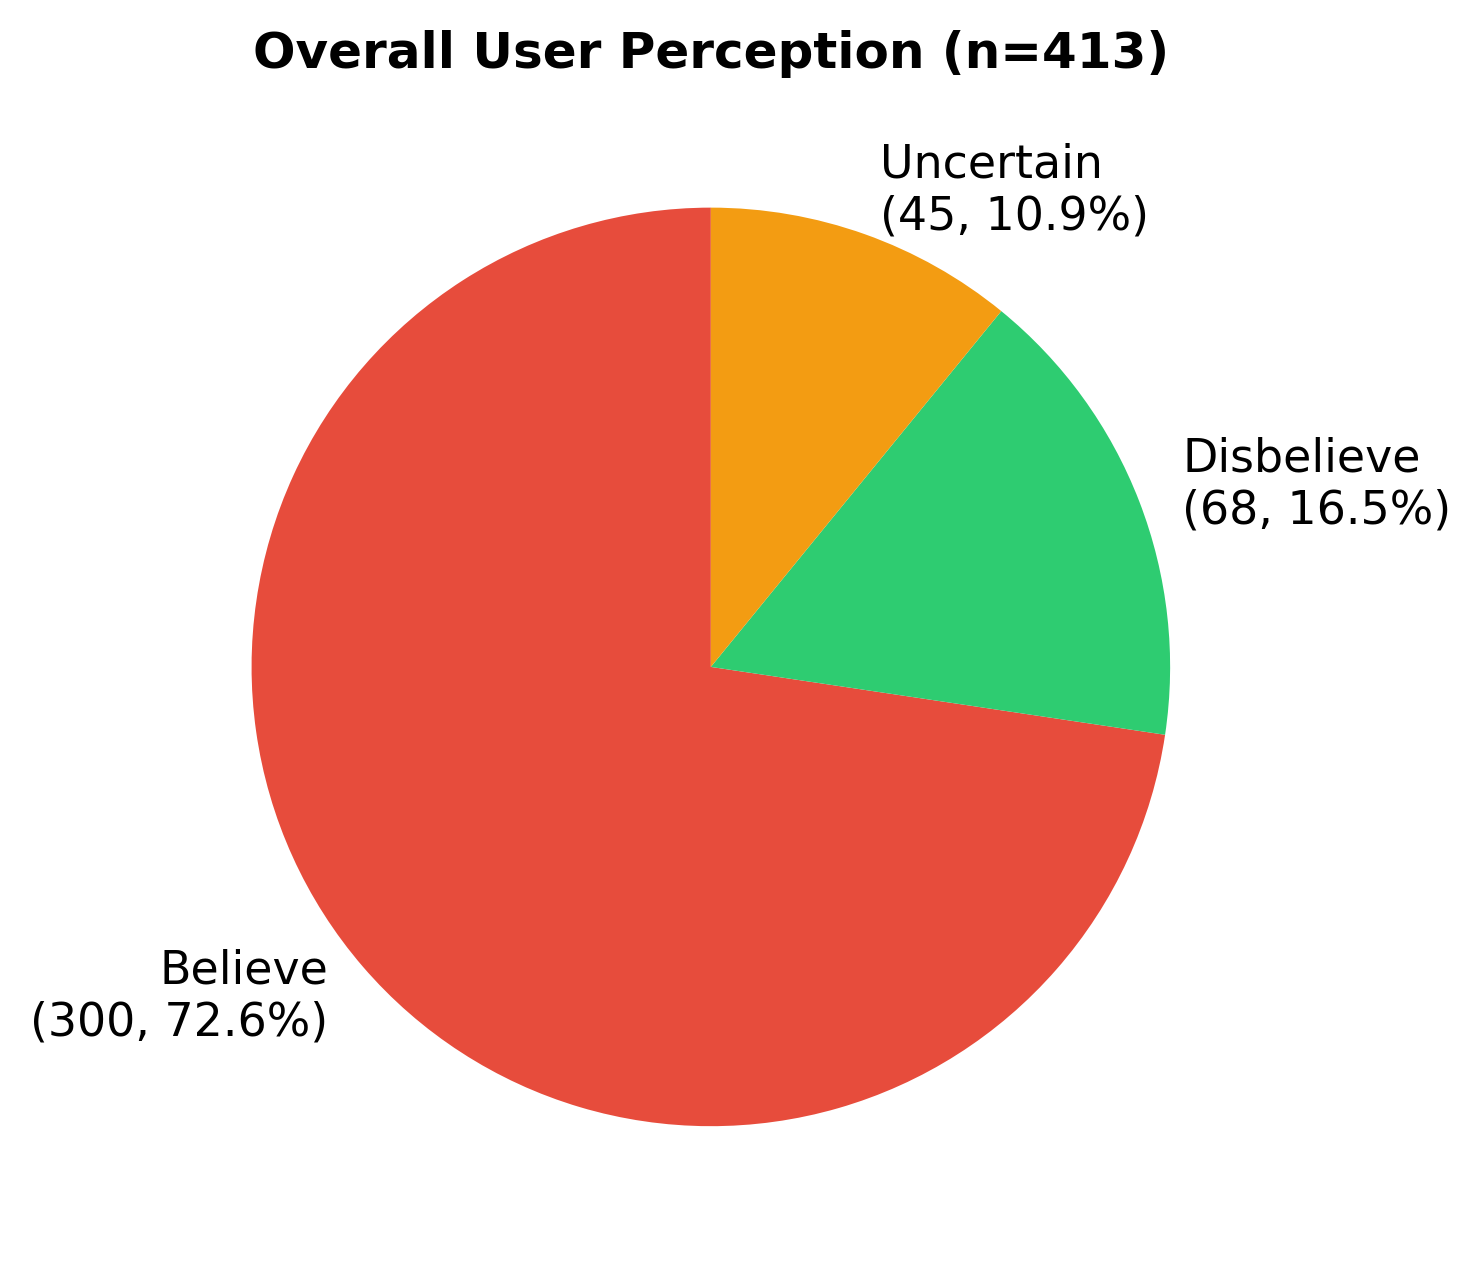
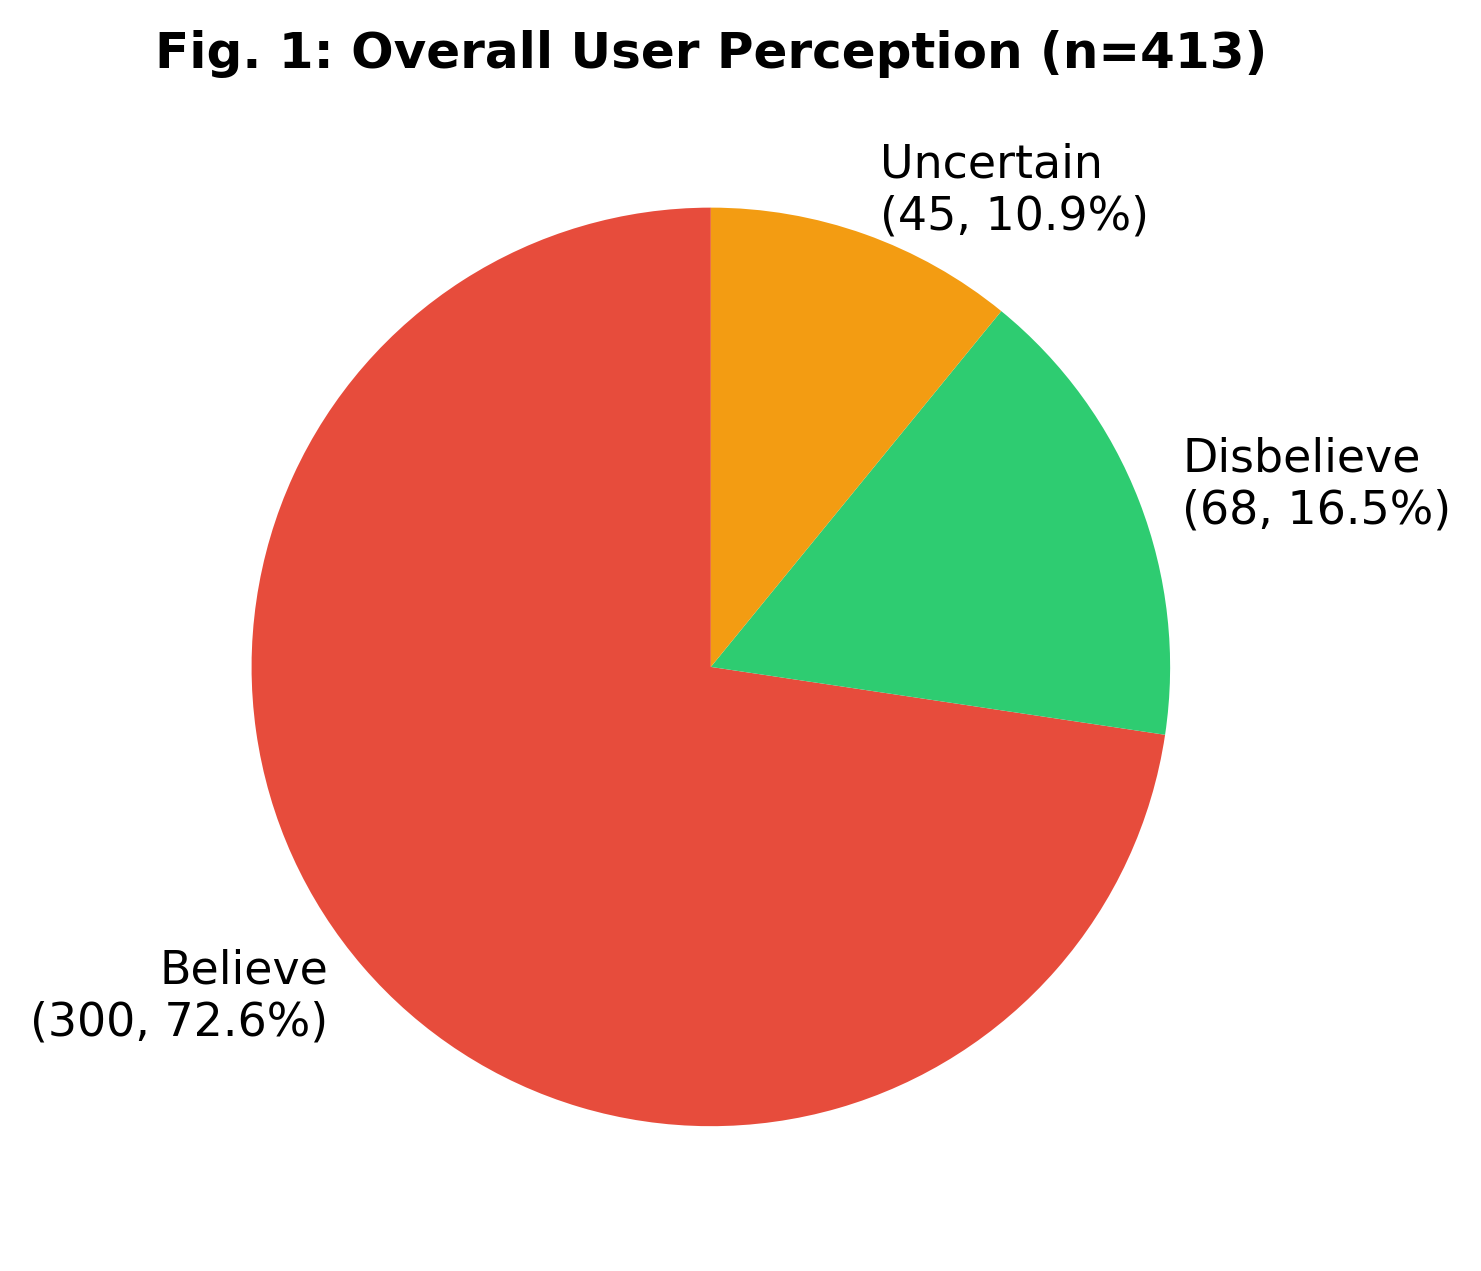
new code

Changed region(s): [[0.0932, 0.0, 0.8697, 0.0614]]

diff --git a/count.py b/count.py
@@ -6,9 +6,9 @@ df['perception'] = df['perception'].str.strip().str.lower()
 df['sentiment'] = df['sentiment'].str.strip().str.lower()
 
 df['post'] = df['link'].map({
-    'https://x.com/BRICSinfo/status/2039119905748857198?s=20': 'Post 1\n(US Troops)',
-    'https://x.com/sentdefender/status/2027869366486732809?s=20': 'Post 2\n(Burj Al Arab)',
-    'https://x.com/ug_chelsea/status/2031773354647024011?s=20': 'Post 3\n(Captured Soldiers)'
+    'https://x.com/BRICSinfo/status/2039119905748857198?s=20': 'Post 1\n(US Base Missile Strike)',
+    'https://x.com/sentdefender/status/2027869366486732809?s=20': 'Post 2\n(Burj Al Arab on Fire)',
+    'https://x.com/ug_chelsea/status/2031773354647024011?s=20': 'Post 3\n(Captured US Soldiers)'
 })
 
 colors_perception = {'believe': '#e74c3c', 'disbelieve': '#2ecc71', 'uncertain': '#f39c12'}
@@ -22,7 +22,7 @@ ax1.pie(perception_counts,
                 for l, v in zip(perception_counts.index, perception_counts)],
         colors=[colors_perception[l] for l in perception_counts.index],
         startangle=90, textprops={'fontsize': 11})
-ax1.set_title('Overall User Perception (n=413)', fontweight='bold', fontsize=12)
+ax1.set_title('Fig. 1: Overall User Perception (n=413)', fontweight='bold', fontsize=12)
 plt.tight_layout()
 plt.savefig('chart1_perception_pie.png', dpi=300, bbox_inches='tight')
 plt.close()
@@ -35,7 +35,7 @@ perception_by_post_pct[['believe', 'disbelieve', 'uncertain']].plot(
     kind='bar', ax=ax2,
     color=[colors_perception['believe'], colors_perception['disbelieve'], colors_perception['uncertain']],
     width=0.6, edgecolor='white')
-ax2.set_title('User Perception by Post (%)', fontweight='bold', fontsize=12)
+ax2.set_title('Fig. 3: User Perception by Post (%)', fontweight='bold', fontsize=12)
 ax2.set_ylabel('Percentage (%)')
 ax2.set_xlabel('')
 ax2.set_ylim(0, 100)
@@ -53,7 +53,7 @@ ax3.pie(sentiment_counts,
                 for l, v in zip(sentiment_counts.index, sentiment_counts)],
         colors=[colors_sentiment[l] for l in sentiment_counts.index],
         startangle=90, textprops={'fontsize': 11})
-ax3.set_title('Overall User Sentiment (n=413)', fontweight='bold', fontsize=12)
+ax3.set_title('Fig. 2: Overall User Sentiment (n=413)', fontweight='bold', fontsize=12)
 plt.tight_layout()
 plt.savefig('chart3_sentiment_pie.png', dpi=300, bbox_inches='tight')
 plt.close()
